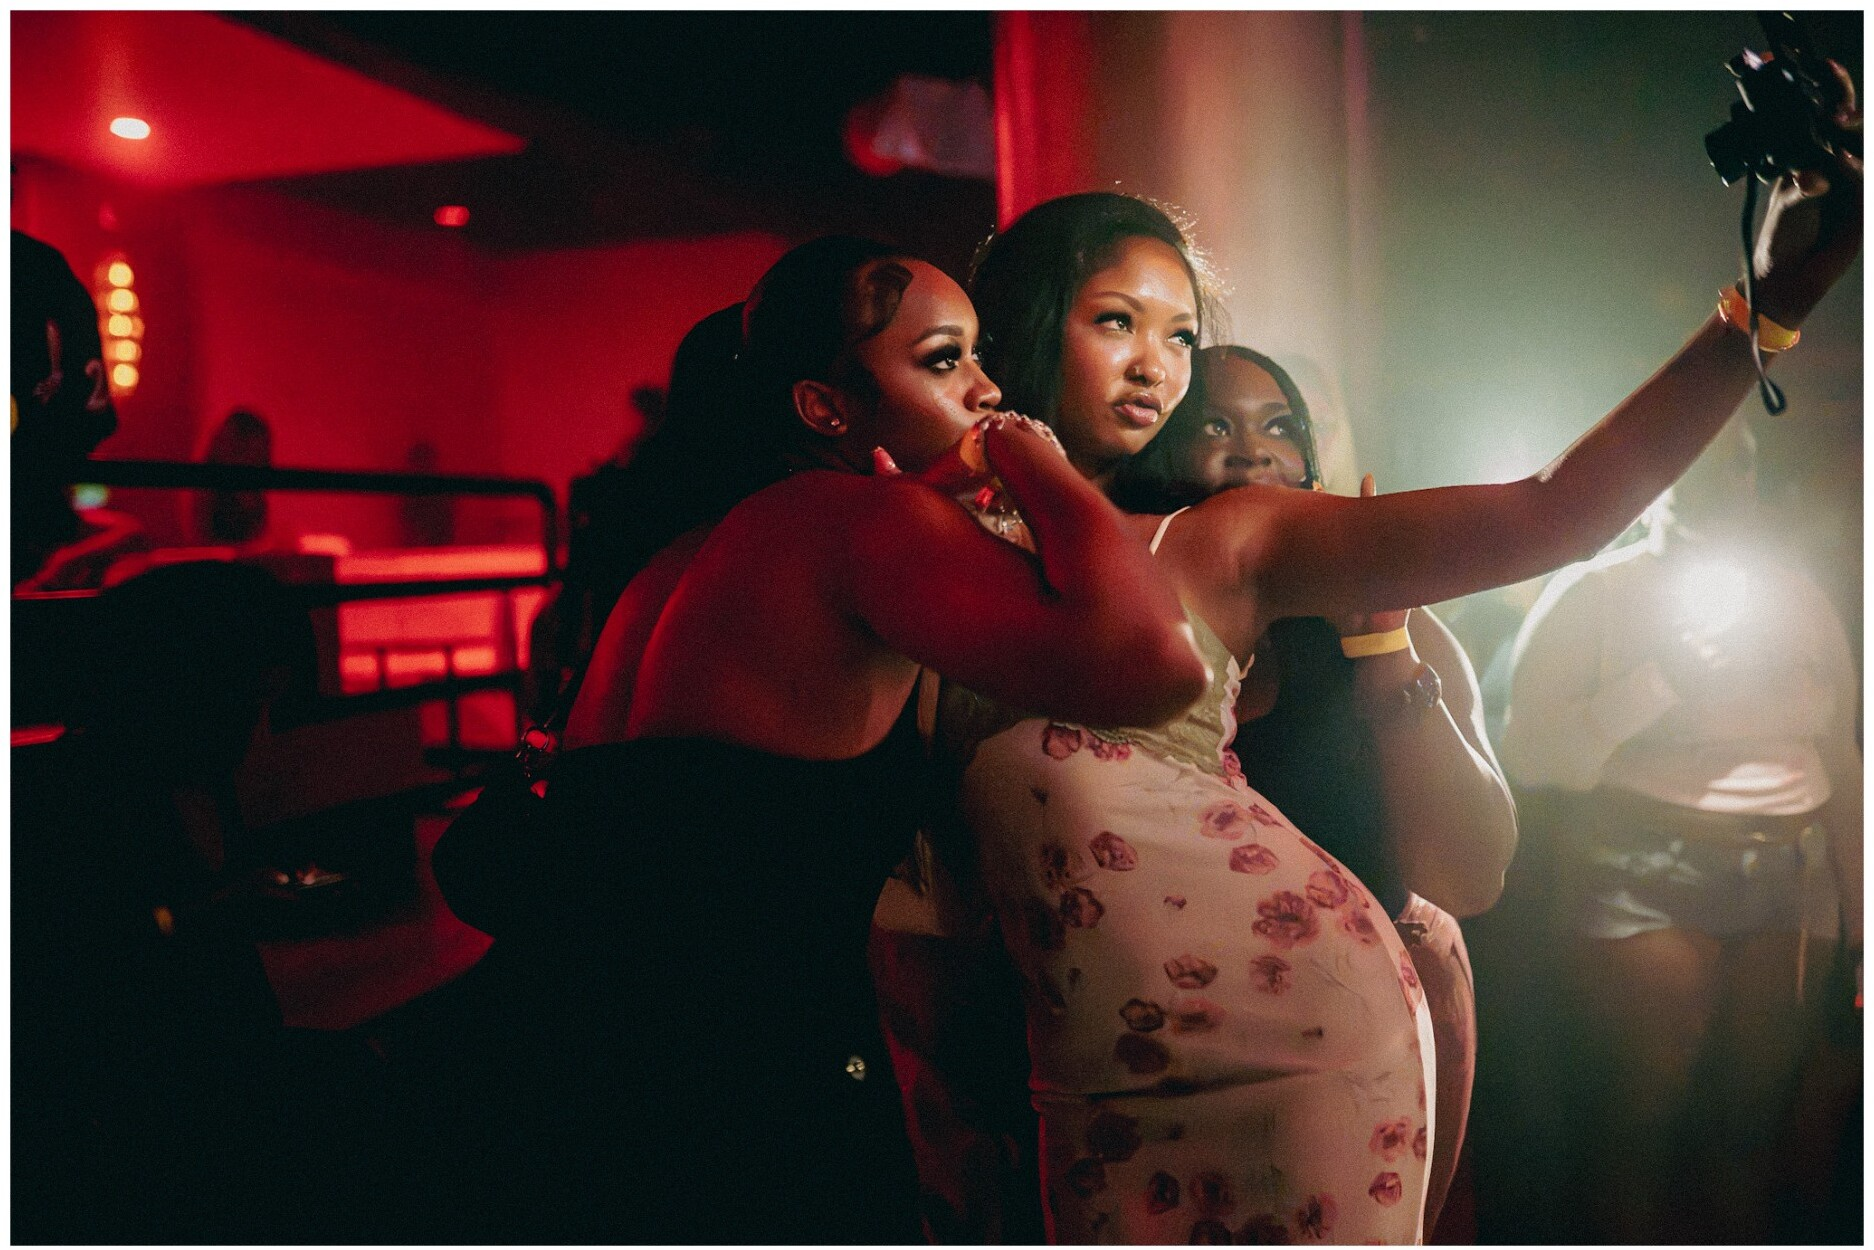
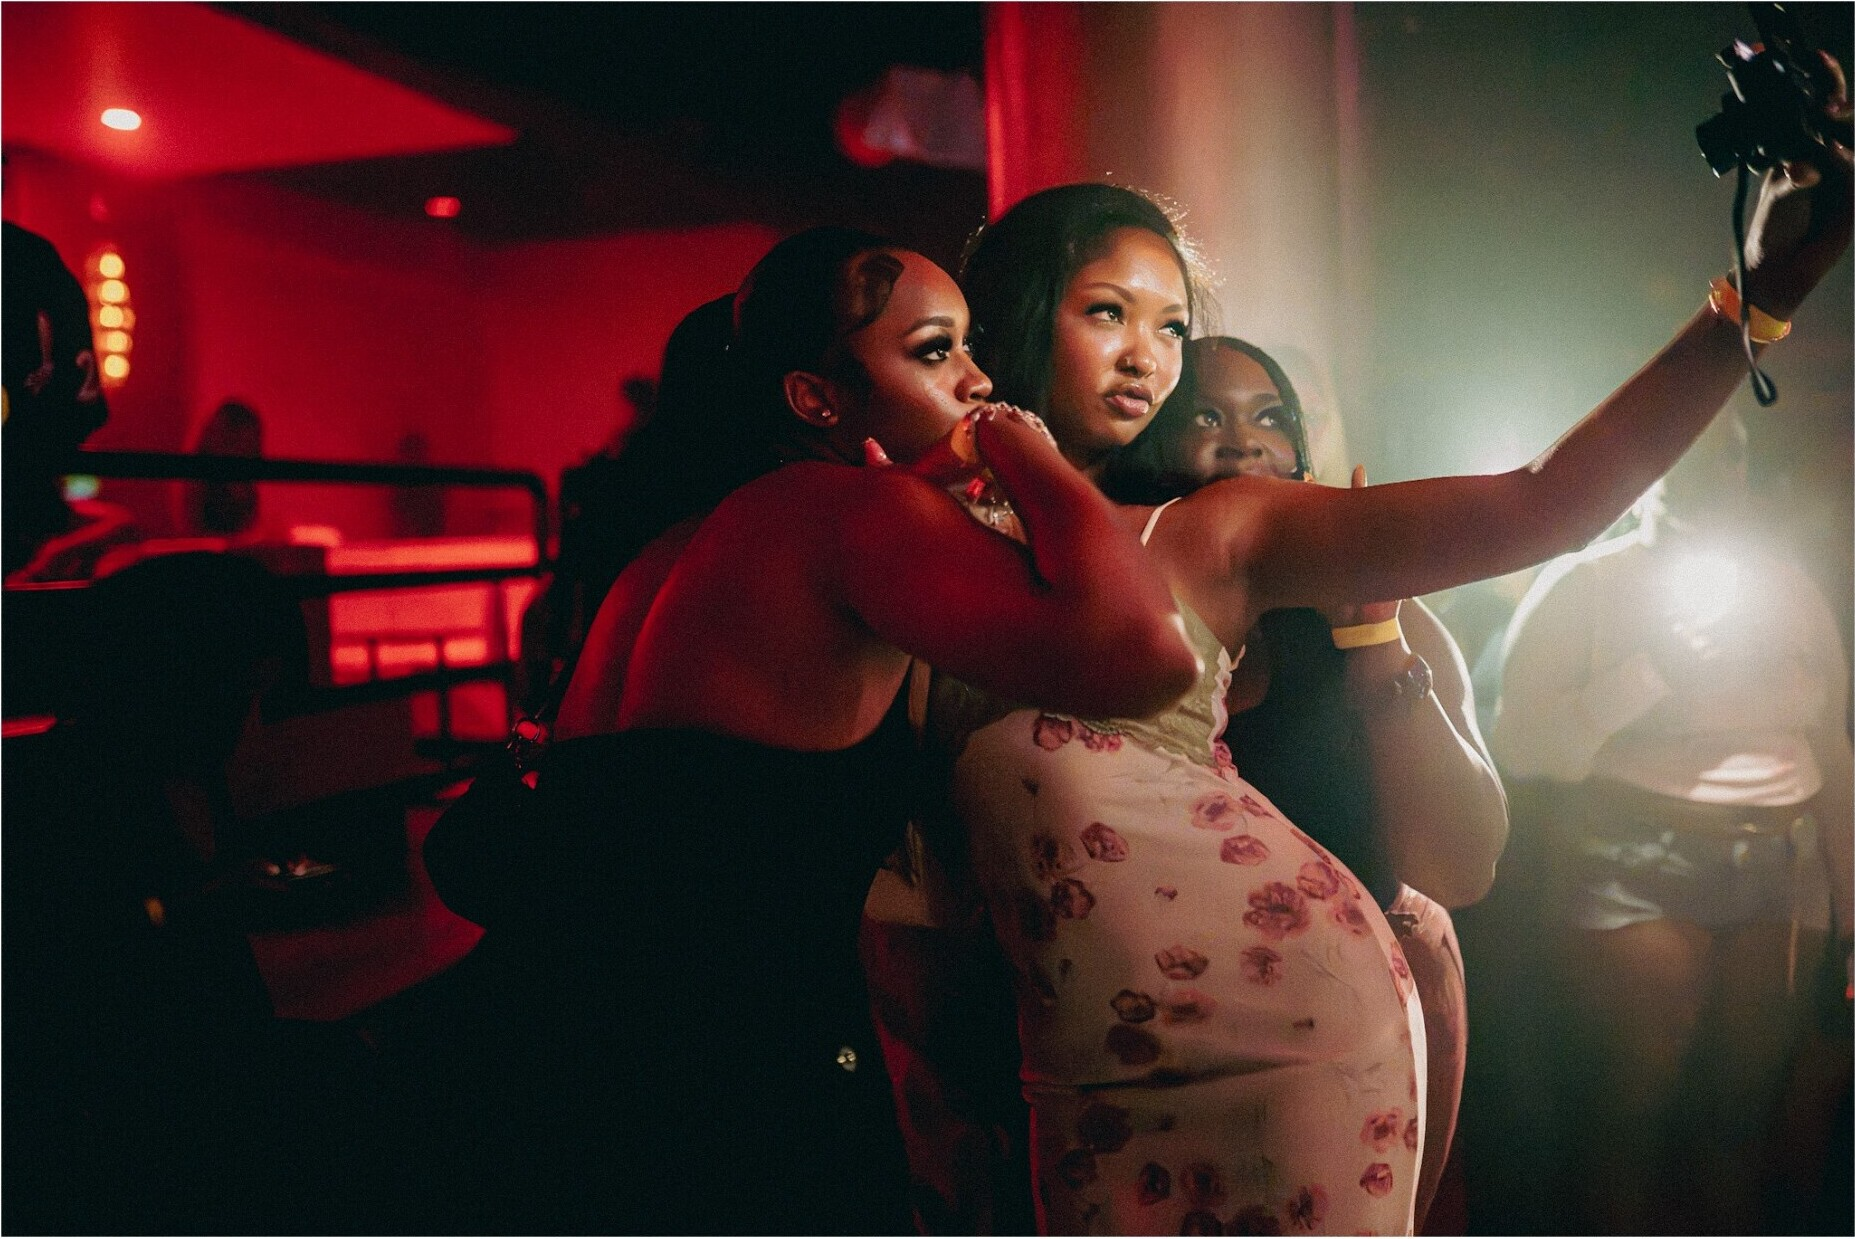
Trim fans selfie white border; show only presenting sponsors on homepage
Claude-Session: https://claude.ai/code/session_01NWwzNjta1kbRpiUG6nYzaq

diff --git a/app/page.tsx b/app/page.tsx
@@ -13,7 +13,7 @@ export default function HomePage() {
       <BrandHero />
       <Experiences />
       <EmailCapture />
-      <Sponsors sponsors={SPONSORS} />
+      <Sponsors sponsors={SPONSORS.filter((s) => s.id === 'spon-002' || s.id === 'spon-003')} />
       <Footer />
     </main>
   )
